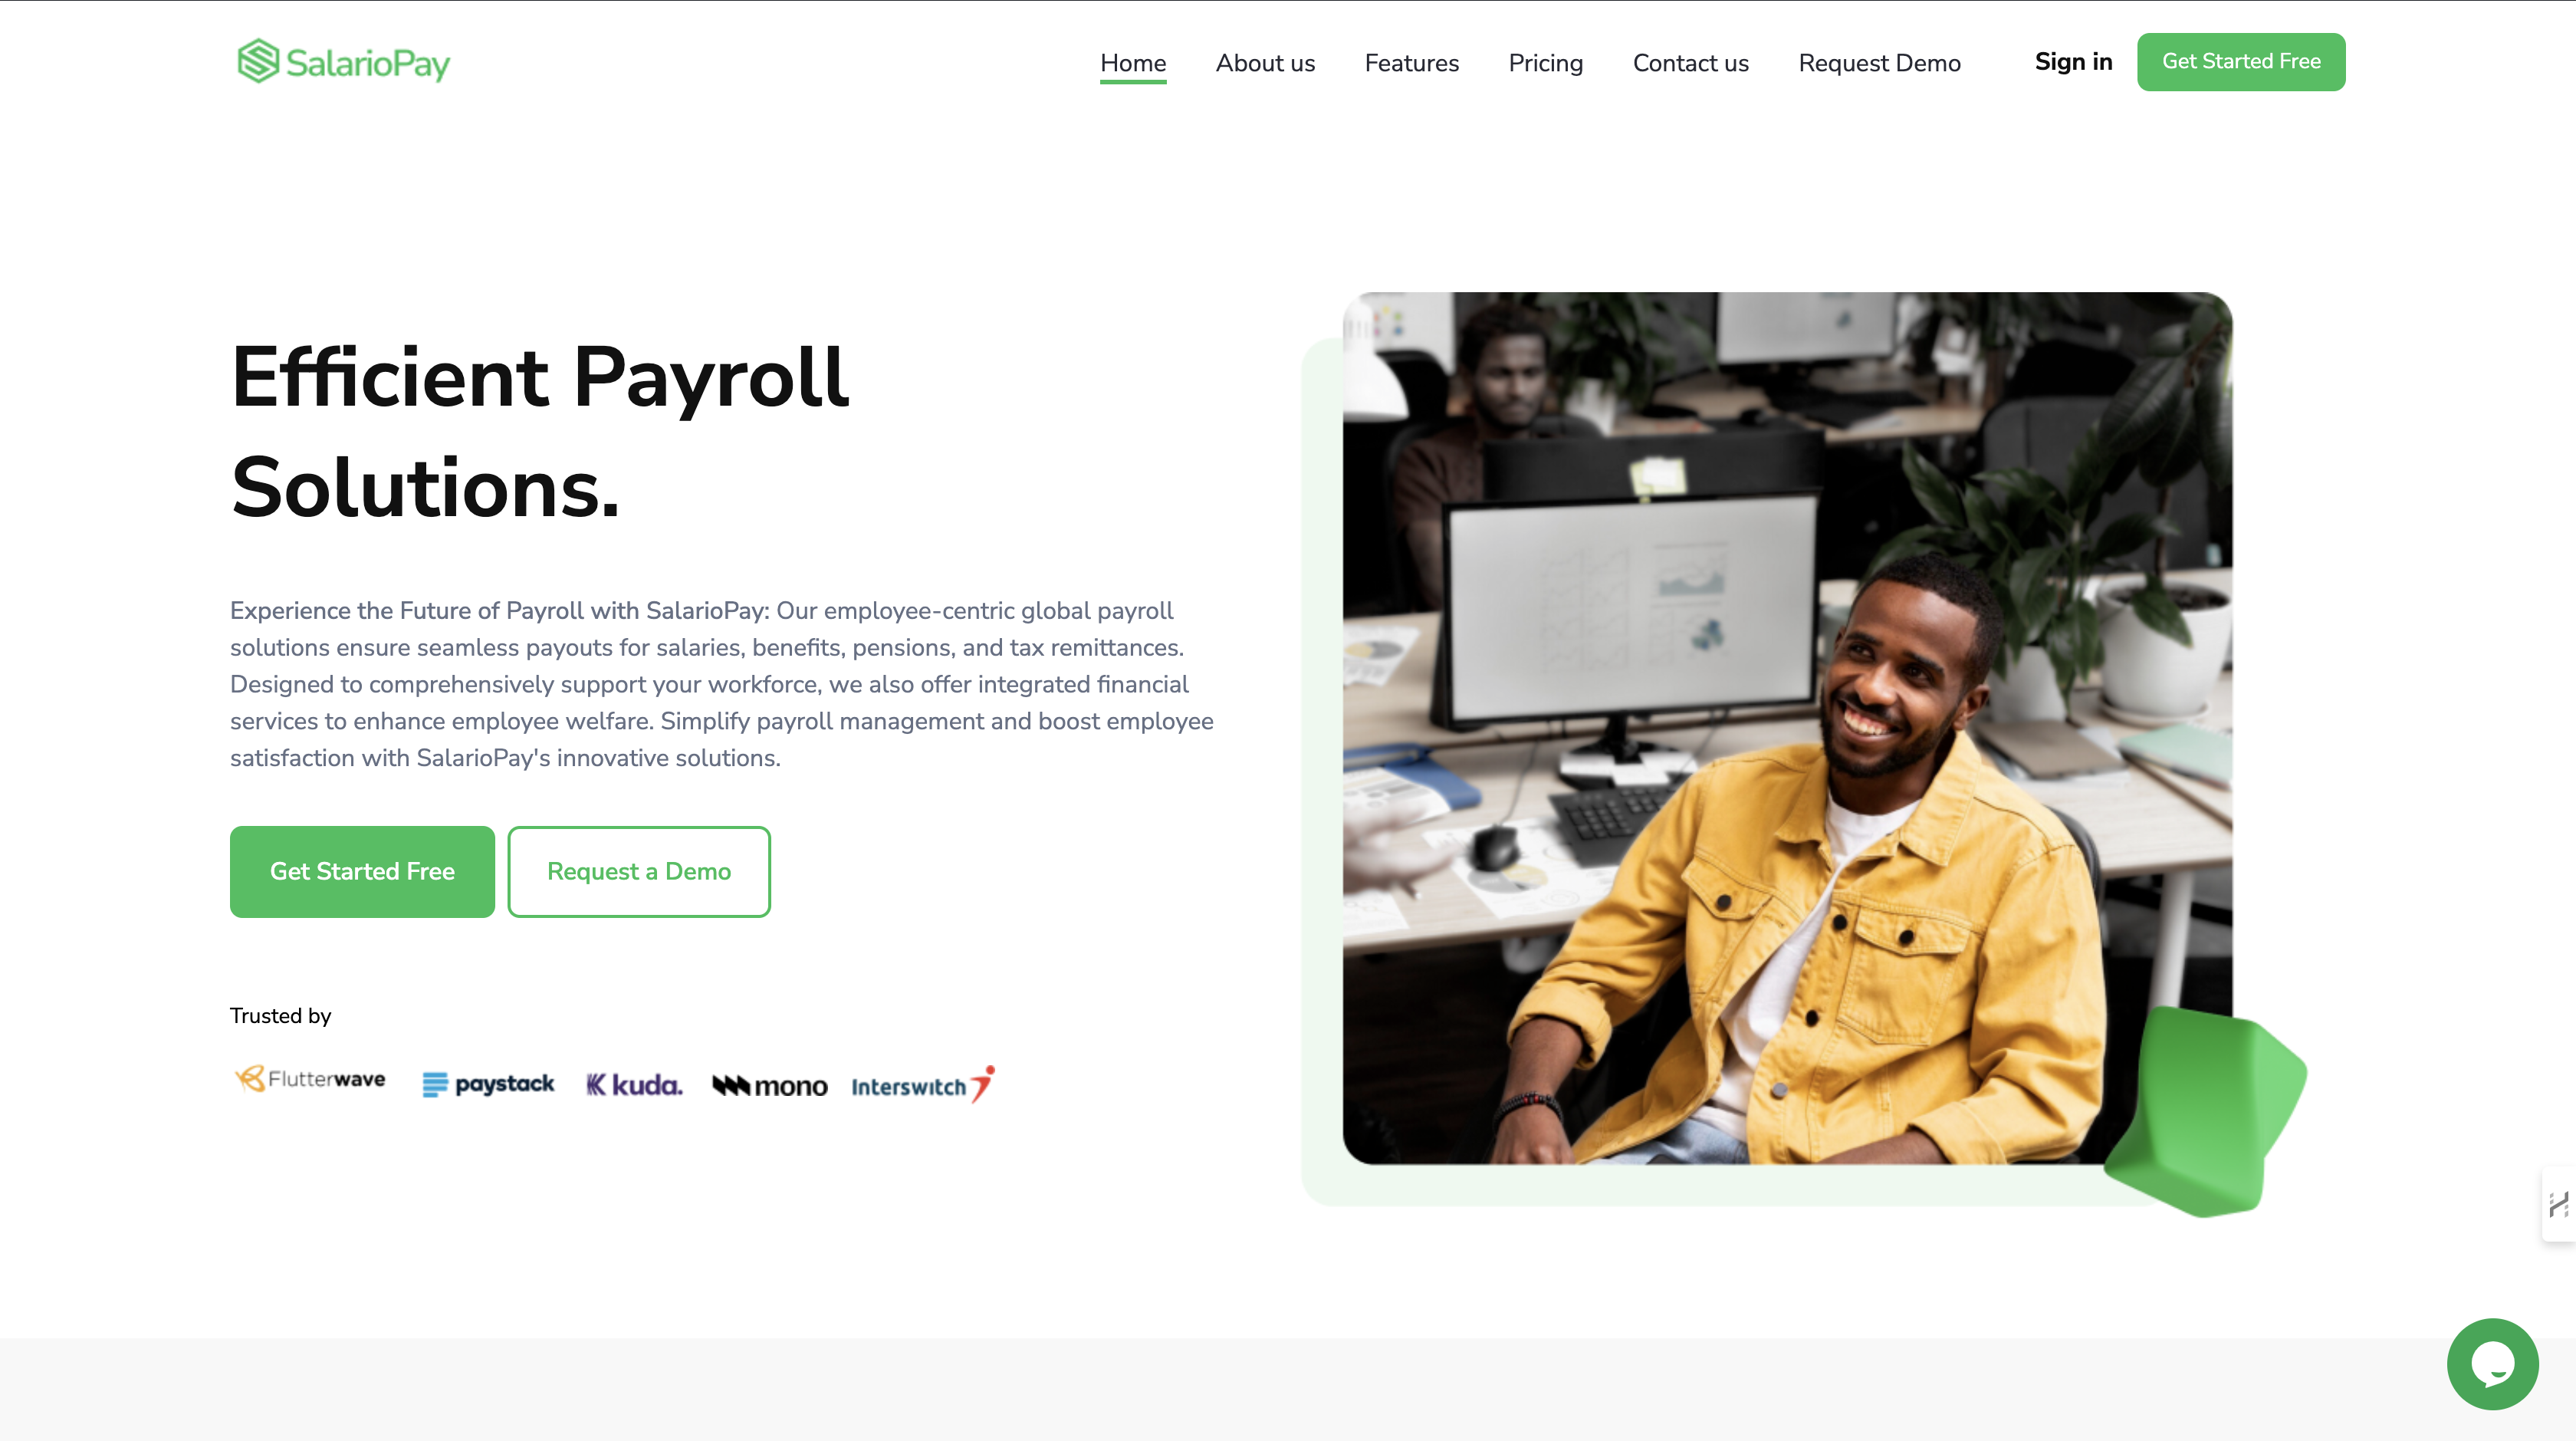
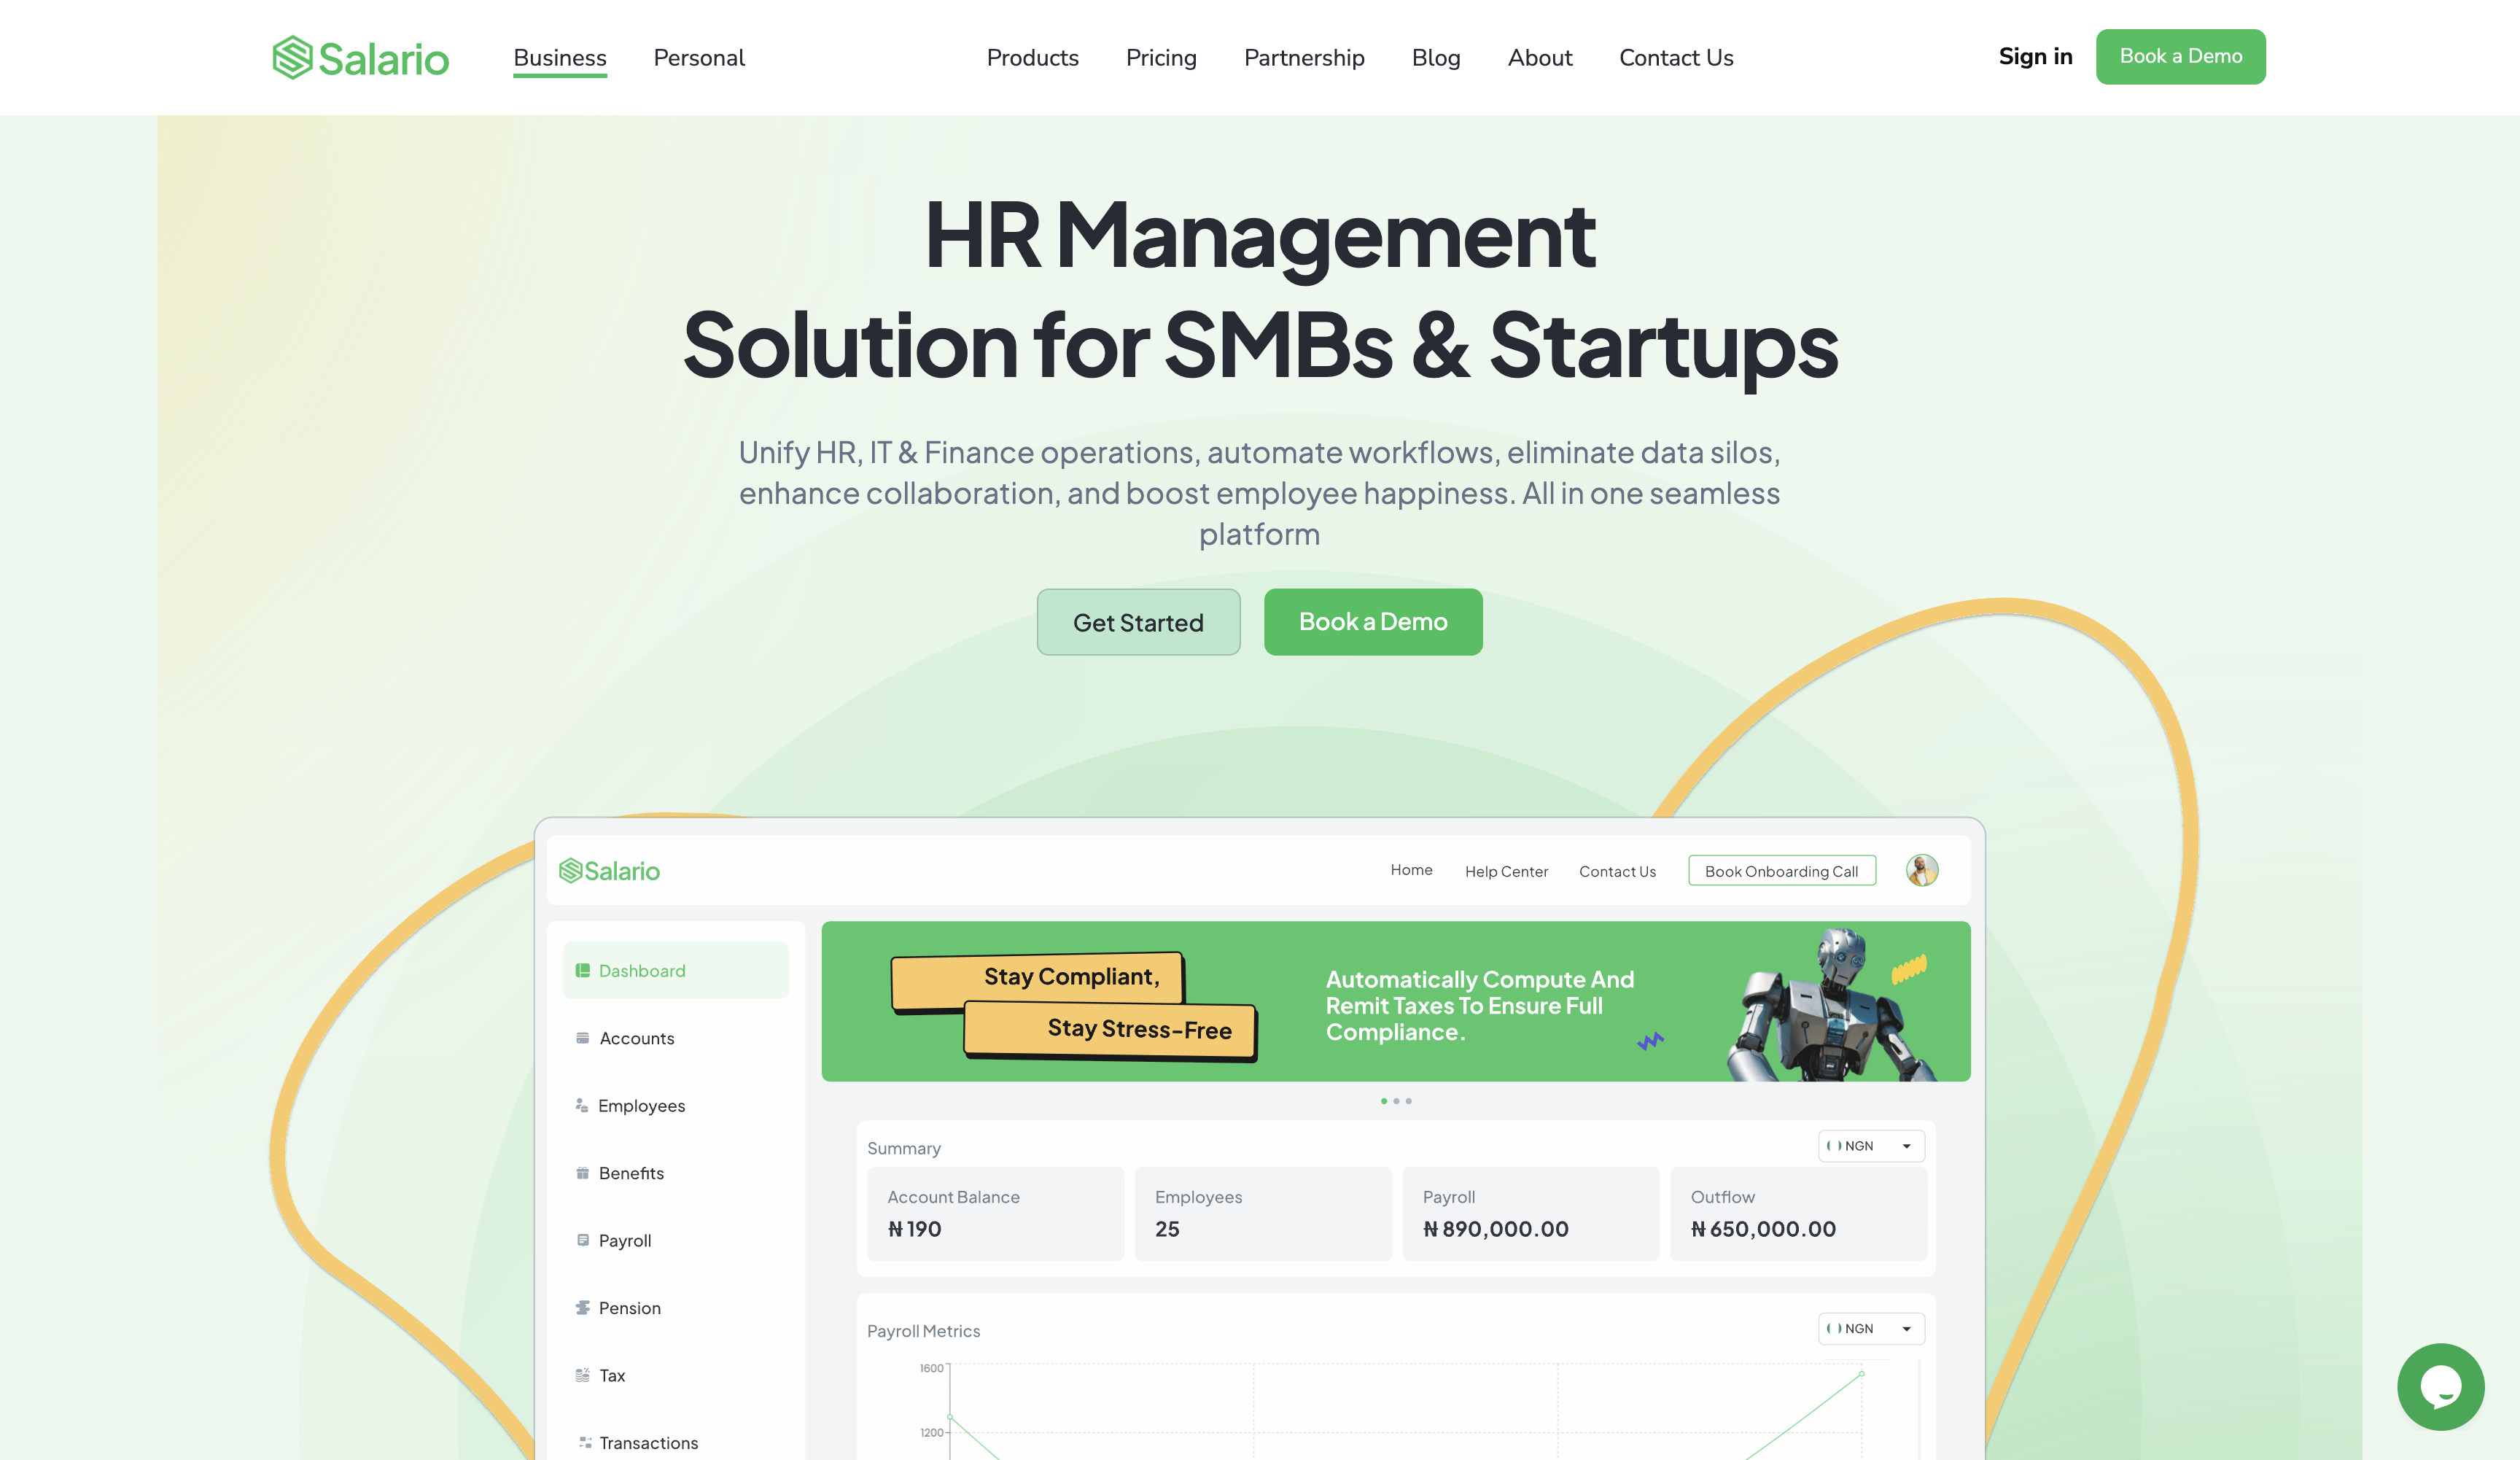
updated portfolio

diff --git a/src/components/portfolio/Portfolio.jsx b/src/components/portfolio/Portfolio.jsx
@@ -1,22 +1,22 @@
 import React from "react";
 import "./Portfolio.css";
-import IMG1 from "../../asset/HarmonyCare.png";
-import IMG3 from "../../asset/rosabon.png";
+import IMG1 from "../../asset/Nottechltd.png";
+// import IMG3 from "../../asset/rosabon.png";
 import IMG5 from "../../asset/fitness-pix.png";
 import IMG6 from "../../asset/kunech.png";
 import IMG7 from "../../asset/simply-group.png";
-import IMG8 from "../../asset/nedgab-consult.png";
+// import IMG8 from "../../asset/nedgab-consult.png";
 import IMG10 from "../../asset/fashion-app.png";
 import IMG11 from "../../asset/salariopay.png";
-import IMG12 from "../../asset/quicklogisticshub.png";
- 
+import IMG12 from "../../asset/buymeter.png";
+
 const Portfolio = () => {
   const data = [
     {
       id: 1,
       image: IMG1,
-      title: "Harmony Care",
-      demo: "https://harmonycares.org/",
+      title: "!Nottechltd",
+      demo: "https://nottechltd.com/",
     },
     {
       id: 10,
@@ -27,8 +27,8 @@ const Portfolio = () => {
     {
       id: 11,
       image: IMG12,
-      title: "Quick Logistics Hub",
-      demo: "https://www.quicklogisticshub.com/",
+      title: "BuyMeter",
+      demo: "https://www.buymeter.ng/signin",
     },
     {
       id: 12,
@@ -36,19 +36,19 @@ const Portfolio = () => {
       title: "SalarioPay",
       demo: "https://salariopay.com/",
     },
-    {
-      id: 9,
-      image: IMG8,
-      title: "NedGab Consult",
-      demo: "https://nedgabconsults.com/",
-    },
-    {
-      id: 3,
-      image: IMG3,
-      title: "Rosabon",
-      // github: "https://github.com/Okoyedennis/real-estate-template",
-      demo: "https://rosabon-treasury.optisoft.com.ng/login",
-    },
+    // {
+    //   id: 9,
+    //   image: IMG8,
+    //   title: "NedGab Consult",
+    //   demo: "https://nedgabconsults.com/",
+    // },
+    // {
+    //   id: 3,
+    //   image: IMG3,
+    //   title: "Rosabon",
+    //   // github: "https://github.com/Okoyedennis/real-estate-template",
+    //   demo: "https://rosabon-treasury.optisoft.com.ng/login",
+    // },
     {
       id: 5,
       image: IMG5,